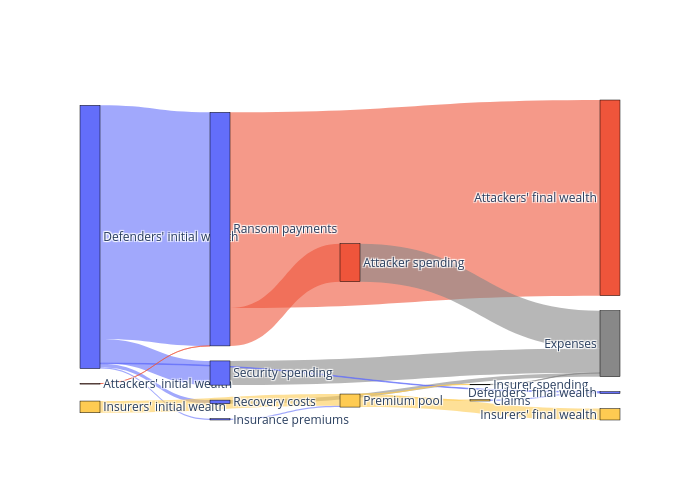
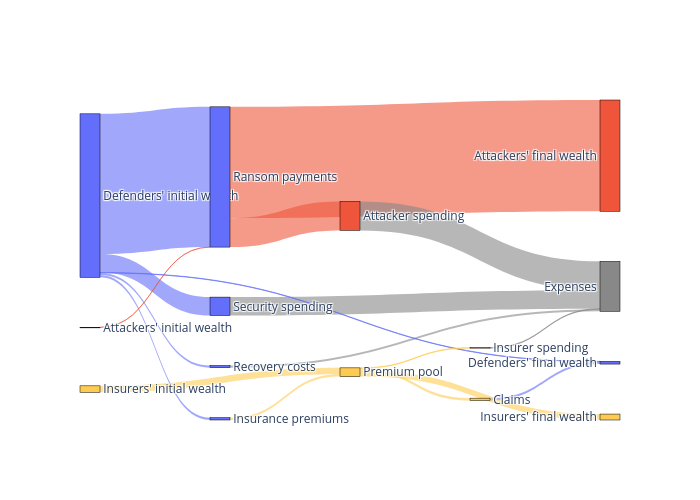
plots mean of 100 runs

diff --git a/cpp-games/scripts/asset_flow_sankey.py b/cpp-games/scripts/asset_flow_sankey.py
@@ -26,6 +26,8 @@ g0 = 'rgba(136, 136, 136, {})'.format(opaque)
 
 def asset_flow_sankey(df):
 
+  df = df.drop(columns=['outcome', 'd_cumulative_assets', 'a_cumulative_assets', 'i_cumulative_assets'])
+  meandf = df.mean()
 
   nodes = {
       "Defenders' initial wealth" : b0,
@@ -53,126 +55,126 @@ def asset_flow_sankey(df):
   f = flow(
     source  = nm["Defenders' initial wealth"],
     sink    = nm["Security spending"],
-    val     = 5466269888,
+    val     = meandf['d_sum_security_investments'],
     color   = b)  
   flows.append(f)
 
   f = flow(
     source  = nm["Security spending"],
     sink    = nm["Expenses"],
-    val     = 5466269888,
+    val     = meandf['d_sum_security_investments'],
     color   = g)  
   flows.append(f)
 
   f = flow(
     source  = nm["Defenders' initial wealth"],
     sink    = nm["Ransom payments"],
-    val     = 52736553959,
+    val     = meandf['attackerLoots'],
     color   = b)  
   flows.append(f)
 
   f = flow(
     source  = nm["Ransom payments"],
     sink    = nm["Attackers' final wealth"],
-    val     = 44175509863,
+    val     = meandf['a_end'],
     color   = r)  
   flows.append(f)
 
   f = flow(
     source  = nm["Defenders' initial wealth"],
     sink    = nm["Recovery costs"],
-    val     = 794751212,
+    val     = meandf['d_sum_recovery_costs'],
     color   = b)  
   flows.append(f)
 
   f = flow(
     source  = nm["Recovery costs"],
     sink    = nm["Expenses"],
-    val     = 794751212,
+    val     = meandf['d_sum_recovery_costs'],
     color   = g)  
   flows.append(f)
 
   f = flow(
     source  = nm["Defenders' initial wealth"],
     sink    = nm["Insurance premiums"],
-    val     = 306234183,
+    val     = meandf['sum_premiums_collected'],
     color   = b)  
   flows.append(f)
 
   f = flow(
     source  = nm["Insurance premiums"],
     sink    = nm["Premium pool"],
-    val     = 306234183,
-    color   = b)  
+    val     = meandf['sum_premiums_collected'],
+    color   = y)  
   flows.append(f)
 
   f = flow(
     source  = nm["Defenders' initial wealth"],
     sink    = nm["Defenders' final wealth"],
-    val     = 135567126,
+    val     = meandf['d_end'],
     color   = b)  
   flows.append(f)
 
   f = flow(
     source  = nm["Attackers' initial wealth"],
     sink    = nm["Ransom payments"],
-    val     = 288620,
+    val     = meandf['a_init'],
     color   = r)  
   flows.append(f)
 
   f = flow(
     source  = nm["Ransom payments"],
     sink    = nm["Attacker spending"],
-    val     = 8561332716,
+    val     = meandf['attackerExpenditures'],
     color   = r)  
   flows.append(f)
 
   f = flow(
     source  = nm["Attacker spending"],
     sink    = nm["Expenses"],
-    val     = 8561332716,
+    val     = meandf['attackerExpenditures'],
     color   = g)  
   flows.append(f)
 
   f = flow(
     source  = nm["Insurers' initial wealth"],
     sink    = nm["Premium pool"],
-    val     = 2641561568,
+    val     = meandf['i_init'],
     color   = y)  
   flows.append(f)
 
   f = flow(
     source  = nm["Premium pool"],
     sink    = nm["Claims"],
-    val     = 311355971,
+    val     = meandf['paid_claims'],
     color   = y)  
   flows.append(f)
 
   f = flow(
     source  = nm["Claims"],
     sink    = nm["Defenders' final wealth"],
-    val     = 311355971,
+    val     = meandf['paid_claims'],
     color   = b)  
   flows.append(f)
 
   f = flow(
     source  = nm["Premium pool"],
     sink    = nm["Insurers' final wealth"],
-    val     = 2569925532,
+    val     = meandf['i_end'],
     color   = y)  
   flows.append(f)
 
   f = flow(
     source  = nm["Premium pool"],
     sink    = nm["Insurer spending"],
-    val     = 66514248,
+    val     = meandf['insurer_expenditures'],
     color   = y)  
   flows.append(f)
 
   f = flow(
     source  = nm["Insurer spending"],
     sink    = nm["Expenses"],
-    val     = 66514248,
+    val     = meandf['insurer_expenditures'],
     color   = g)  
   flows.append(f)
 
@@ -182,7 +184,7 @@ def asset_flow_sankey(df):
   fig = go.Figure(go.Sankey(
       arrangement='snap',
       node = dict(
-        pad = 15,
+        pad = 50,
         thickness = 20,
         line = dict(color = "black", width = 0.5),
         label = list(nm.keys()),
